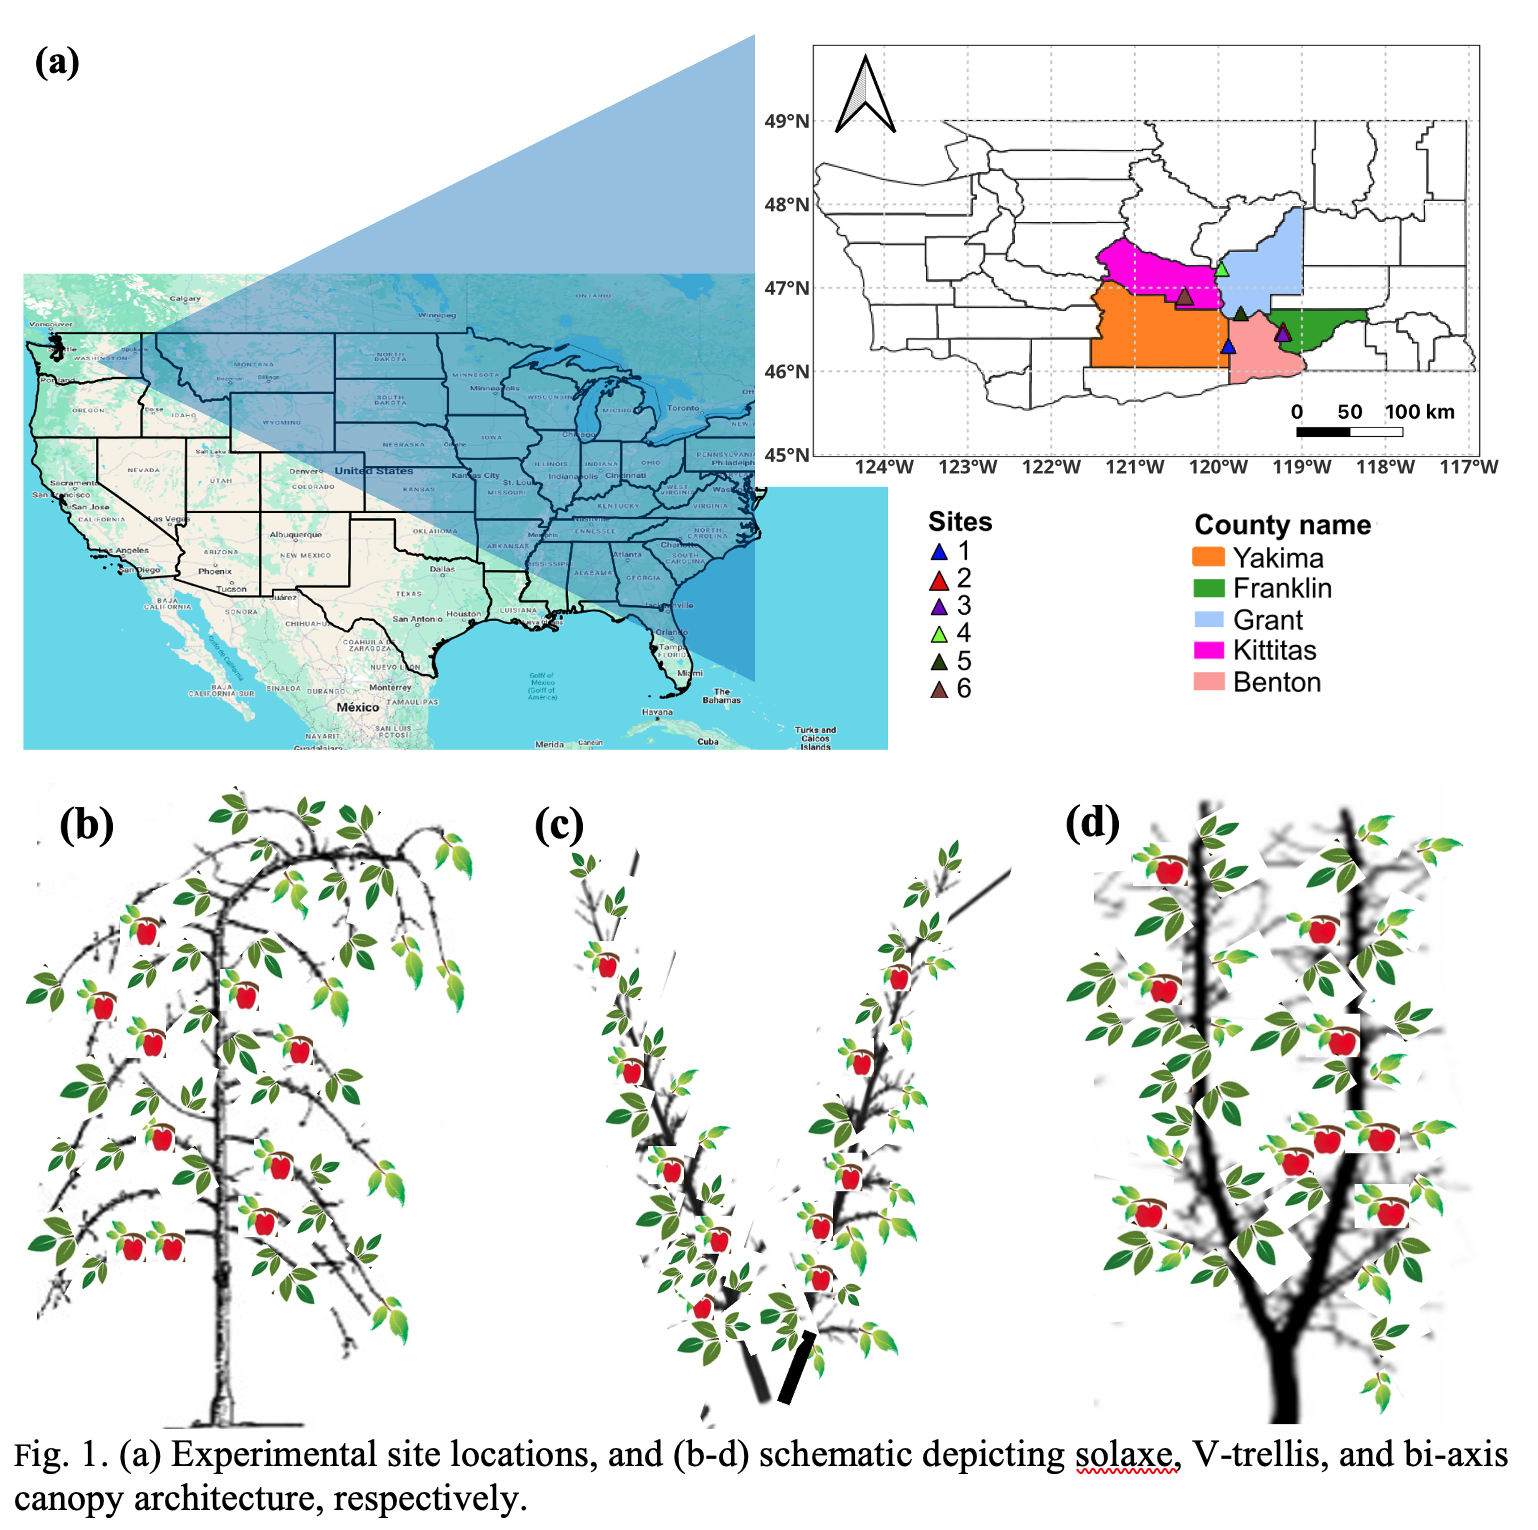
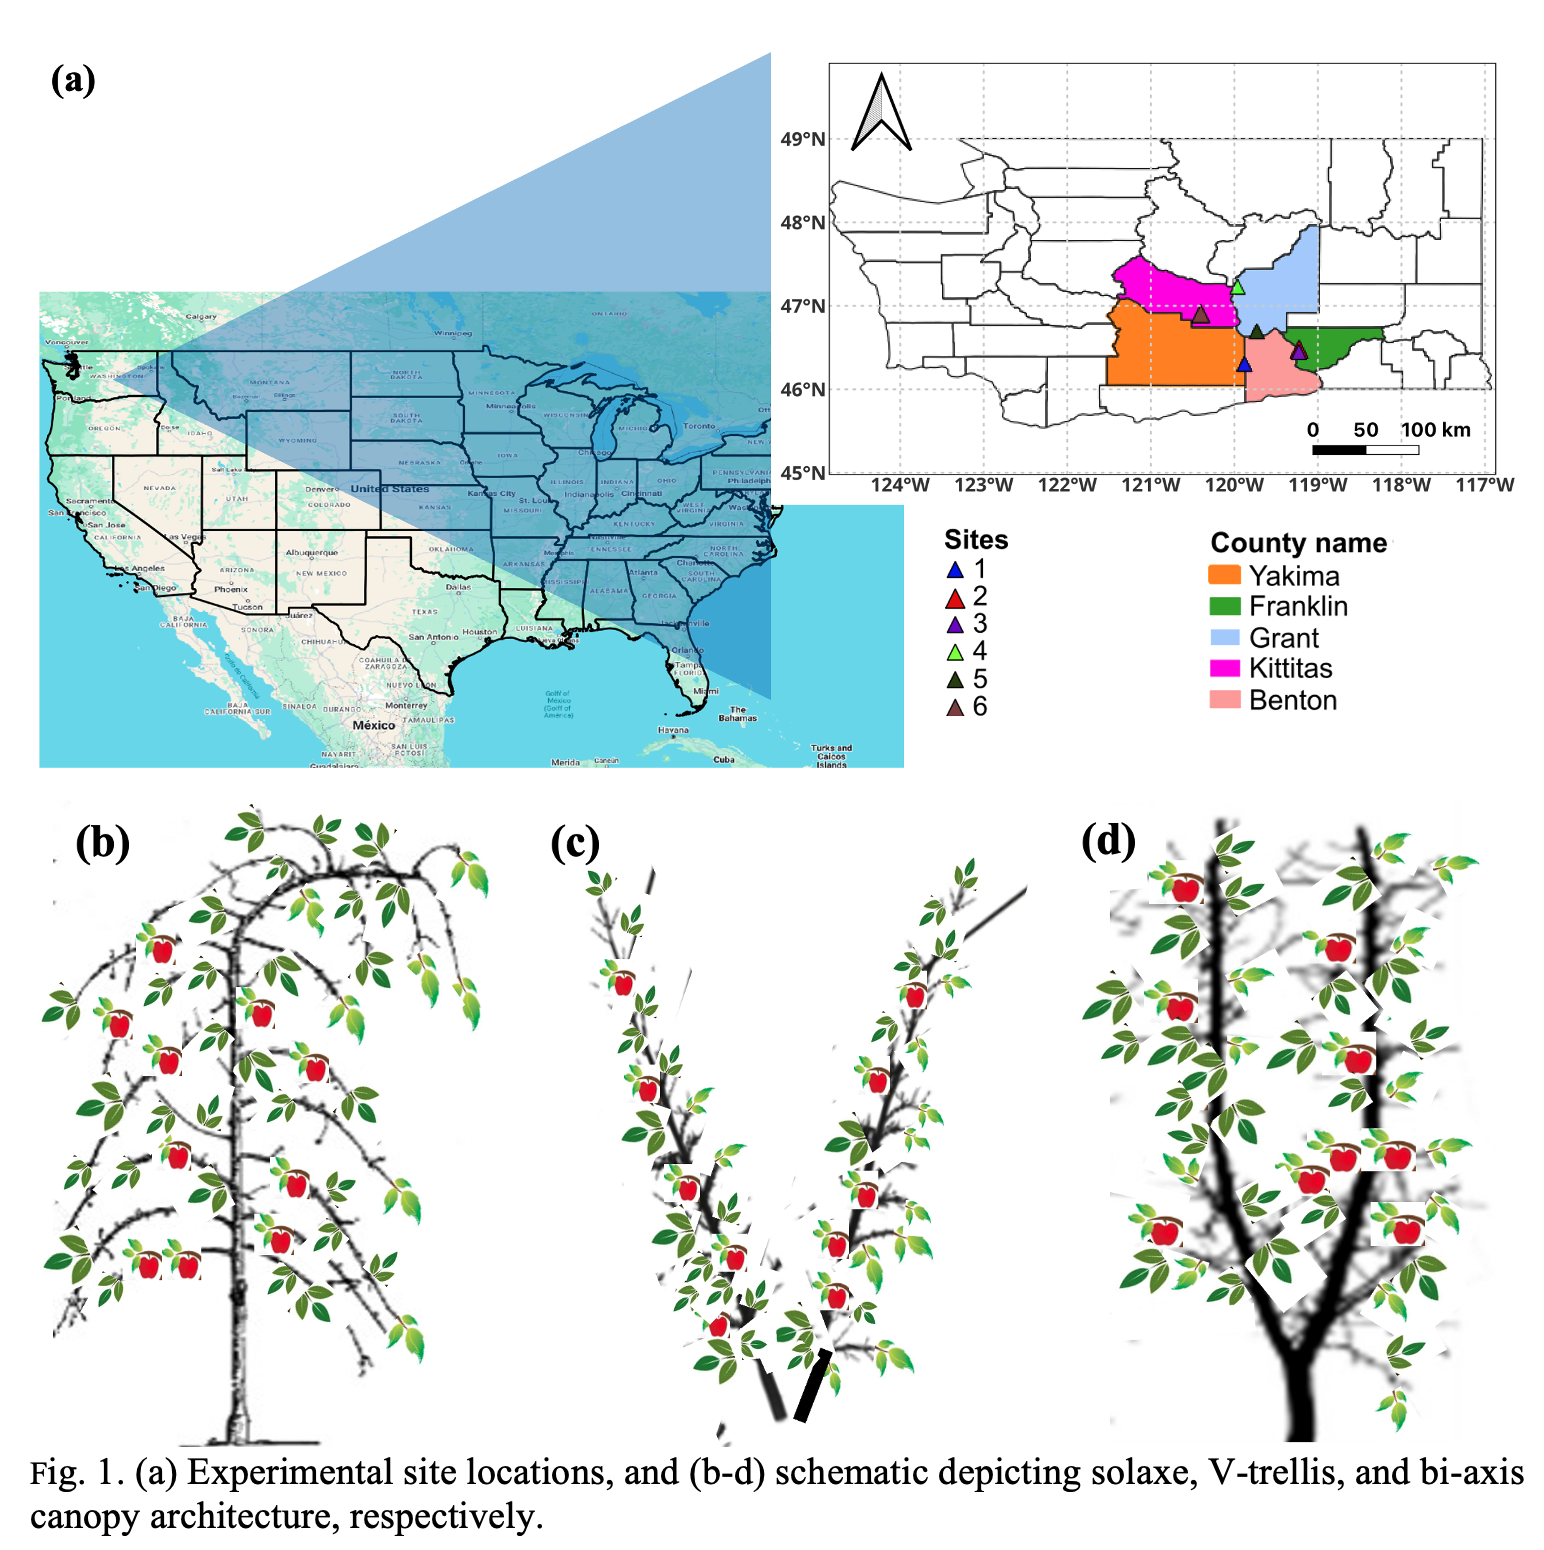
Adding

Changed region(s): [[0.0, 0.0307, 0.9675, 1.0], [0.0312, 0.0307, 0.0624, 0.0614]]

diff --git a/articles.html b/articles.html
@@ -11,20 +11,24 @@
 
 <header>
     <div class="container">
-   
+     
 
         <nav>
             <a href="index.html">About Me</a>
             <a href="articles.html">Journal articles</a>
             <a href="presentations.html">Conference presentations</a>
-            <a href="extension-outreach.html">Extension and Outreach</a>
-            <a href="cv.html">CV</a>
+            <a href="outreach.html">Extension and Outreach</a>
+            <a href="projects.html">Projects</a>
             <a href="gallery.html">Gallery</a>
         </nav>
-             <h1>Jornal articles blogs</h1>
+           <h1>Journal articles: Behind the manuscripts</h1>
     </div>
 </header>
+
 <section class="about-section">
+<h2>Quantifying modern apple orchard systems and management effects on weather variables in the cold semi-arid climatic zone
+    (<a href="https://journals.ametsoc.org/view/journals/apme/aop/JAMC-D-24-0154.1/JAMC-D-24-0154.1.xml" target="_blank">Journal of Applied Meteorology and Climatology</a>)
+</h2>
 <div class="two_col">
       <div class="two_col_left">
         <img src="assets/OE/KY_weather_maintenance.JPEG" alt="Weather station maintenance" class="slide">
@@ -33,14 +37,31 @@
     </div>
 
     <div class="two_col_right">
-        <h2>Quantifying modern apple orchard systems and management effects on weather variables in the cold semi-arid climatic zone
-            (<a href="https://journals.ametsoc.org/view/journals/apme/aop/JAMC-D-24-0154.1/JAMC-D-24-0154.1.xml" target="_blank">Journal of Applied Meteorology and Climatology</a>)
-        </h2>
         <p style="text-align: justify;">
             Weather-based decision-support tools for in-orchard management are derived from open-field weather station data with an assumption that there is minimal to no difference between open-field and in-orchard weather. Orchard training system, growth stage, and various management practices can cause different weather conditions inside the orchard, that may lead to bias and uncertainty in the weather-based models. This study quantified orchard training and management effects (e.g., irrigation and overhead cooling for ameliorating heat stress to maturing fruits and canopy) on air temperature, relative humidity, solar radiation, and wind speeds at different time scales using two seasons data from six commercial apple orchards. A paired t-test revealed significant differences (p < 0.05) between the seasonal means of the open-field and in-orchard weather, indicating substantial orchard effects. Typically, orchards have 1.9 to 4.4 ℃ daily maximum cooler air temperature and 9.2 to 27.5 % higher relative humidity due to the evident impacts of canopy transpiration. Also, in-orchard stations recorded lower solar radiation (267.8 to 483.2 W m-2) and wind speed (2.2 to 3.7 m s-1). Monthly averages revealed the dependence of orchard effects on the phenological stages of apple canopies. Wind resistance and reduced air mixing caused drier microclimate during winter (RH offset: 8.7 %) and spring (RH offset: 7.7 %) season. Use of overhead sprinklers for heat stress mitigation reduced air temperature (5.2 ℃) and increased relative humidity (up to 31 %) inside the orchard, and the effects lingered during evening and night hours. 
         </p>
     </div>
 </div>
+
+<h2>Assessment of satellite precipitation products at different time scales over a cyclone prone coastal river basin in India
+    (<a href="https://doi.org/10.2166/wcc.2022.166" target="_blank">Journal of Water and Climate Change</a>)
+</h2>
+<div class="two_col">
+      <div class="two_col_left">
+        <img src="assets/JWC/JWC_pic1.png" alt="Land Use Land Cover Map" class="slide">
+        <img src="assets/JWC/JWC_pic2.png" alt="Map" class="slide">
+        <img src="assets/JWC/JWC_pic3.png" alt="POD" class="slide">
+    </div>
+
+    <div class="two_col_right">
+        <p style="text-align: justify;">
+            Precipitation is a fundamental input for many hydrological and water management studies. With the advancement in science, a variety of satellite precipitation products are available. In this study, the ability of three satellite precipitation products (TRMM-3B42v7, PERSIANN-CDR and GPM-IMERGv6) to capture rainfall were evaluated with ground-based Indian Meteorological Department (IMD) gridded data and also by driving the Soil Water Assessment Tool (SWAT) hydrological model for a cyclone prone coastal river basin in the southeast of India. Results indicate that among the three, GPM-IMERG v6 outperformed in all the statistical metrics, followed by TRMM-3B42 v7 at different temporal scales. GPM-IMERG v6 exhibited the highest correlation coefficient (0.48) and lowest root mean square error (9.52 mm/day), followed by TRMM-3B42 v7 (CC = 0.44, RMSE = 9.58 mm/day) at daily scale. In contrast to other studies in similar regions, IMERGV6 showed better performance than the PERSIANN CDR in detection skills of low, medium and high intensity rainfall events as well as False Alarm Ratio. Hydrological evaluation of the three products using the SWAT model over the study area showed satisfactory results at daily and monthly scale during the calibration and validation period. IMERGV6 is found to have better performance in hydrological evaluation as well.
+</div>
+
+
+
+
+
 </section>
 <script src="script.js"></script>
 

diff --git a/presentations.html b/presentations.html
@@ -1,0 +1,28 @@
+<!DOCTYPE html>
+<html lang="en">
+<head>
+<meta charset="UTF-8">
+<meta name="viewport" content="width=device-width, initial-scale=1.0">
+<title>Academic Portfolio</title>
+<link rel="stylesheet" href="style.css">
+</head>
+
+<body>
+
+<header>
+    <div class="container">
+     
+
+        <nav>
+            <a href="index.html">About Me</a>
+            <a href="articles.html">Journal articles</a>
+            <a href="presentations.html">Conference presentations</a>
+            <a href="outreach.html">Extension and Outreach</a>
+            <a href="projects.html">Projects</a>
+            <a href="gallery.html">Gallery</a>
+        </nav>
+           <h1>Karisma Yumnam</h1>
+    </div>
+</header>
+
+<p>Upcoming</p>

diff --git a/gallery.html b/gallery.html
@@ -1,0 +1,27 @@
+<!DOCTYPE html>
+<html lang="en">
+<head>
+<meta charset="UTF-8">
+<meta name="viewport" content="width=device-width, initial-scale=1.0">
+<title>Academic Portfolio</title>
+<link rel="stylesheet" href="style.css">
+</head>
+
+<body>
+
+<header>
+    <div class="container">
+     
+
+        <nav>
+            <a href="index.html">About Me</a>
+            <a href="articles.html">Journal articles</a>
+            <a href="presentations.html">Conference presentations</a>
+            <a href="outreach.html">Extension and Outreach</a>
+            <a href="projects.html">Projects</a>
+            <a href="gallery.html">Gallery</a>
+        </nav>
+           <h1>Karisma Yumnam</h1>
+    </div>
+</header>
+<p>Upcoming</p>

diff --git a/outreach.html b/outreach.html
@@ -1,0 +1,27 @@
+<!DOCTYPE html>
+<html lang="en">
+<head>
+<meta charset="UTF-8">
+<meta name="viewport" content="width=device-width, initial-scale=1.0">
+<title>Academic Portfolio</title>
+<link rel="stylesheet" href="style.css">
+</head>
+
+<body>
+
+<header>
+    <div class="container">
+     
+
+        <nav>
+            <a href="index.html">About Me</a>
+            <a href="articles.html">Journal articles</a>
+            <a href="presentations.html">Conference presentations</a>
+            <a href="outreach.html">Extension and Outreach</a>
+            <a href="projects.html">Projects</a>
+            <a href="gallery.html">Gallery</a>
+        </nav>
+           <h1>Karisma Yumnam</h1>
+    </div>
+</header>
+<p>Upcoming</p>

diff --git a/projects.html b/projects.html
@@ -1,0 +1,27 @@
+<!DOCTYPE html>
+<html lang="en">
+<head>
+<meta charset="UTF-8">
+<meta name="viewport" content="width=device-width, initial-scale=1.0">
+<title>Academic Portfolio</title>
+<link rel="stylesheet" href="style.css">
+</head>
+
+<body>
+
+<header>
+    <div class="container">
+     
+
+        <nav>
+            <a href="index.html">About Me</a>
+            <a href="articles.html">Journal articles</a>
+            <a href="presentations.html">Conference presentations</a>
+            <a href="outreach.html">Extension and Outreach</a>
+            <a href="projects.html">Projects</a>
+            <a href="gallery.html">Gallery</a>
+        </nav>
+           <h1>Karisma Yumnam</h1>
+    </div>
+</header>
+<p>Upcoming</p>

diff --git a/index.html b/index.html
@@ -17,8 +17,8 @@
             <a href="index.html">About Me</a>
             <a href="articles.html">Journal articles</a>
             <a href="presentations.html">Conference presentations</a>
-            <a href="extension-outreach.html">Extension and Outreach</a>
-            <a href="cv.html">CV</a>
+            <a href="outreach.html">Extension and Outreach</a>
+            <a href="projects.html">Projects</a>
             <a href="gallery.html">Gallery</a>
         </nav>
            <h1>Karisma Yumnam</h1>